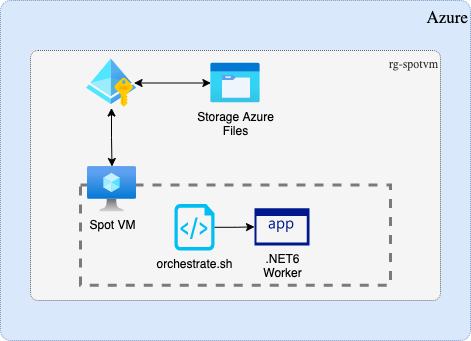
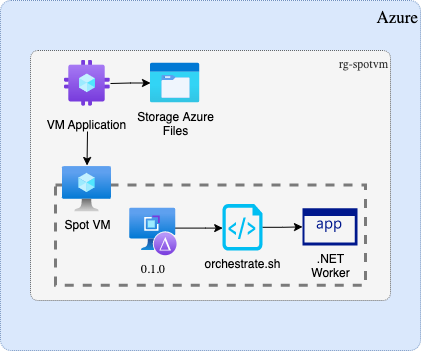
feat (orchestration): use vm app to install and exec the worker (#5)

diff --git a/README.md b/README.md
@@ -101,13 +101,16 @@ As a general recommendation, you must always take into account edge cases and co
 
 #### The Orchestration
 
-As this is aforementioned in the previous section, the orchestration can be scoped to coordinate at the application level or go beyond, and implement broader capabilities like system recovery as you see fit. Whereas, this reference implementation is focused specifically on scheduling the interruptible workload into the Azure Spot VM operating system. In other words, it is executing the worker app at the VM start up time.
+As this is aforementioned from the previous section, the orchestration can be scoped to coordinate at the application level or go beyond, and implement broader capabilities like system recovery as you see fit. Whereas, this reference implementation is focused on scheduling the interruptible workload into the Azure Spot VM operating system. In other words, it is enabling .NET worker application as a service as well as starting it for the first time.
 
-This is going to be really helpful to kick off the application after eviction or first time the Azure Spot VM gets deployed. This way, the application will be able to continue processing messages without human intervention from the queue once started. Once the application is running it will transition the `Recover` -> `Resume` -> `Start` [application states](#the-application-states).
+This archestration appraach in which the interruptible workload is installed as a service is going to be really helpful to let the operating system get this automatically started when Spot VM starts up. This way, the application will be able to continue processing messages without human intervention after eviction. Once the application is running it will transition the `Recover` -> `Resume` -> `Start` [application states](#the-application-states).
 
-By design, this is a [bash script](./orchestrate.sh) running after the machine is started up, so it downloads the workload package from an Azure Storage Account for file shares, uncompress and execute the process.
+By design, this is a [bash script](./orchestrate.sh) that is executed by using VM Aapplications. This Azure resource allows to publish and distrubute specific application versions for a particular VM. Once it is set, it downloads an Azure Blob Storage file containing the interruptible workload package. The package is uncompressed using the installation command, and execute the `orchestrate.sh` within it.
 
 ![Depict the Azure Spot VM infrastructure at orchestration time](./spot-orchestrationdiagram.png)
+
+>**Note**
+>Althought this Reference Implmentation will walkthrought the process of packaging, publishing and distributing a single app, this is prescribed as one time activity following a set of step by step instructions. Whereas in productive systems, you will want to deploy many times to production within a day, week or month depending on how often the team agrees upon that, manage multiple revision/versions and applications. That being said, it is recommended for you to implement CI/CD pipelines to automate this or implement any other practice your orgazation typically follows to install applications.
 
 Another important orquestration related aspect is to understand how to scale your workload within a single VM instance, so it is more resource efficient.
 
@@ -267,7 +270,7 @@ At this point, you have learnt that as an Architect you are tasked at being flex
 1. Create the Azure Spot VM deloyment
 
    ```bash
-   az deployment group create -g rg-vmspot -f main.bicep
+   az deployment group create -g rg-vmspot -f main.bicep -p location=westcentralus
    ```
 
 #### Package the workload
@@ -290,11 +293,60 @@ At this point, you have learnt that as an Architect you are tasked at being flex
    cd ./bin/Release/net6.0/
    ```
 
+1. Copy the systemd configuration file
+
+   ```bash
+   cp ../../../../interruptible-workload.service .
+   ```
+
+1. Copy the orchestration file
+
+   ```bash
+   cp ../../../../orchestrate.sh .
+   ```
+
 1. Package the worker sample
 
    ```bash
-   zip -r worker.zip *
+   tar -czf ../../../../worker-0.1.0.tar.gz *
    ```
+
+#### Upload the packaged workload, and the orchestration script
+
+1. Upload the package to the container apps
+
+   ```bash
+   az storage blob upload --account-name savmapps --container-name apps --name worker-0.1.0.tar.gz --file ../../../../worker-0.1.0.tar.gz
+   ```
+
+1. Generate a valid SAS uri expiring in seven days packaged workload
+
+   ```bash
+   saWorkerUri=$(az storage blob generate-sas --full-uri --account-name savmapps --container-name apps --name worker-0.1.0.tar.gz --account-key $(az storage account keys list -n savmapps -g rg-vmspot --query [0].value) --expiry  $(date -u -d "7 days" '+%Y-%m-%dT%H:%MZ') --permissions r -o tsv)
+   ```
+
+#### Publish the packaged workload and get a valid SAS uri
+
+1. Publish the version **0.1.0** of the orchestration worker app
+
+   ```bash
+   az sig gallery-application version create --version-name 0.1.0 --application-name app --gallery-name ga --location "West Central Us" --resource-group rg-vmspot --package-file-link $saWorkerUri --install-command "mkdir -p /usr/share/worker-0.1.0 && tar -oxzf /var/lib/waagent/Microsoft.CPlat.Core.VMApplicationManagerLinux/app/0.1.0/app -C /usr/share/worker-0.1.0 && cp /usr/share/worker-0.1.0/orchestrate.sh . && ./orchestrate.sh -i" --remove-command "./orchestrate.sh -u"
+   ```
+
+#### Set a VM application to the Spot VM
+
+1. Assign the **worker 0.1.0** VM app to the Spot VM
+
+   ```bash
+   az vm application set \
+      --resource-group rg-vmspot \
+      --name vm-spot \
+      --app-version-ids $(az sig gallery-application version show --version-name 0.1.0 --application-name app --gallery-name ga --resource-group rg-vmspot --query id -o tsv)
+   ```
+
+   After the new VM App version installation is complete if you ssh remote you could execute you could get a status outcome similar to one shown below
+
+   ![Interruptible Workload service status.](./output.png)
 
 #### Clean up
 
@@ -314,7 +366,7 @@ At this point, you have learnt that as an Architect you are tasked at being flex
    az network bastion ssh -n bh -g rg-vmspot --username azureuser --ssh-key ~/.ssh/opsvmspots.pem --auth-type ssh-key --target-resource-id $(az vm show -g rg-vmspot -n vm-spot --query id -o tsv)
    ```
 
-#### Manually copy the **worker.zip** file into the Spot VM
+#### Manually copy the **worker-0.1.0.tar.gz** file into the Spot VM
 
 1. Open a tunnel using Bastion between your machine and the remote Spot VM
 
@@ -325,7 +377,7 @@ At this point, you have learnt that as an Architect you are tasked at being flex
 1. Copy the file using ssh copy
 
    ```bash
-   scp -i ~/.ssh/opsvmspots.pem -P 50022 src/bin/Release/net6.0/worker.zip azureuser@localhost:~/.
+   scp -i ~/.ssh/opsvmspots.pem -P 50022 src/bin/Release/net6.0/worker-0.1.0.tar.gz azureuser@localhost:~/.
    ```
 
 [Azure Spot advisor]: https://azure.microsoft.com/pricing/spot-advisor
